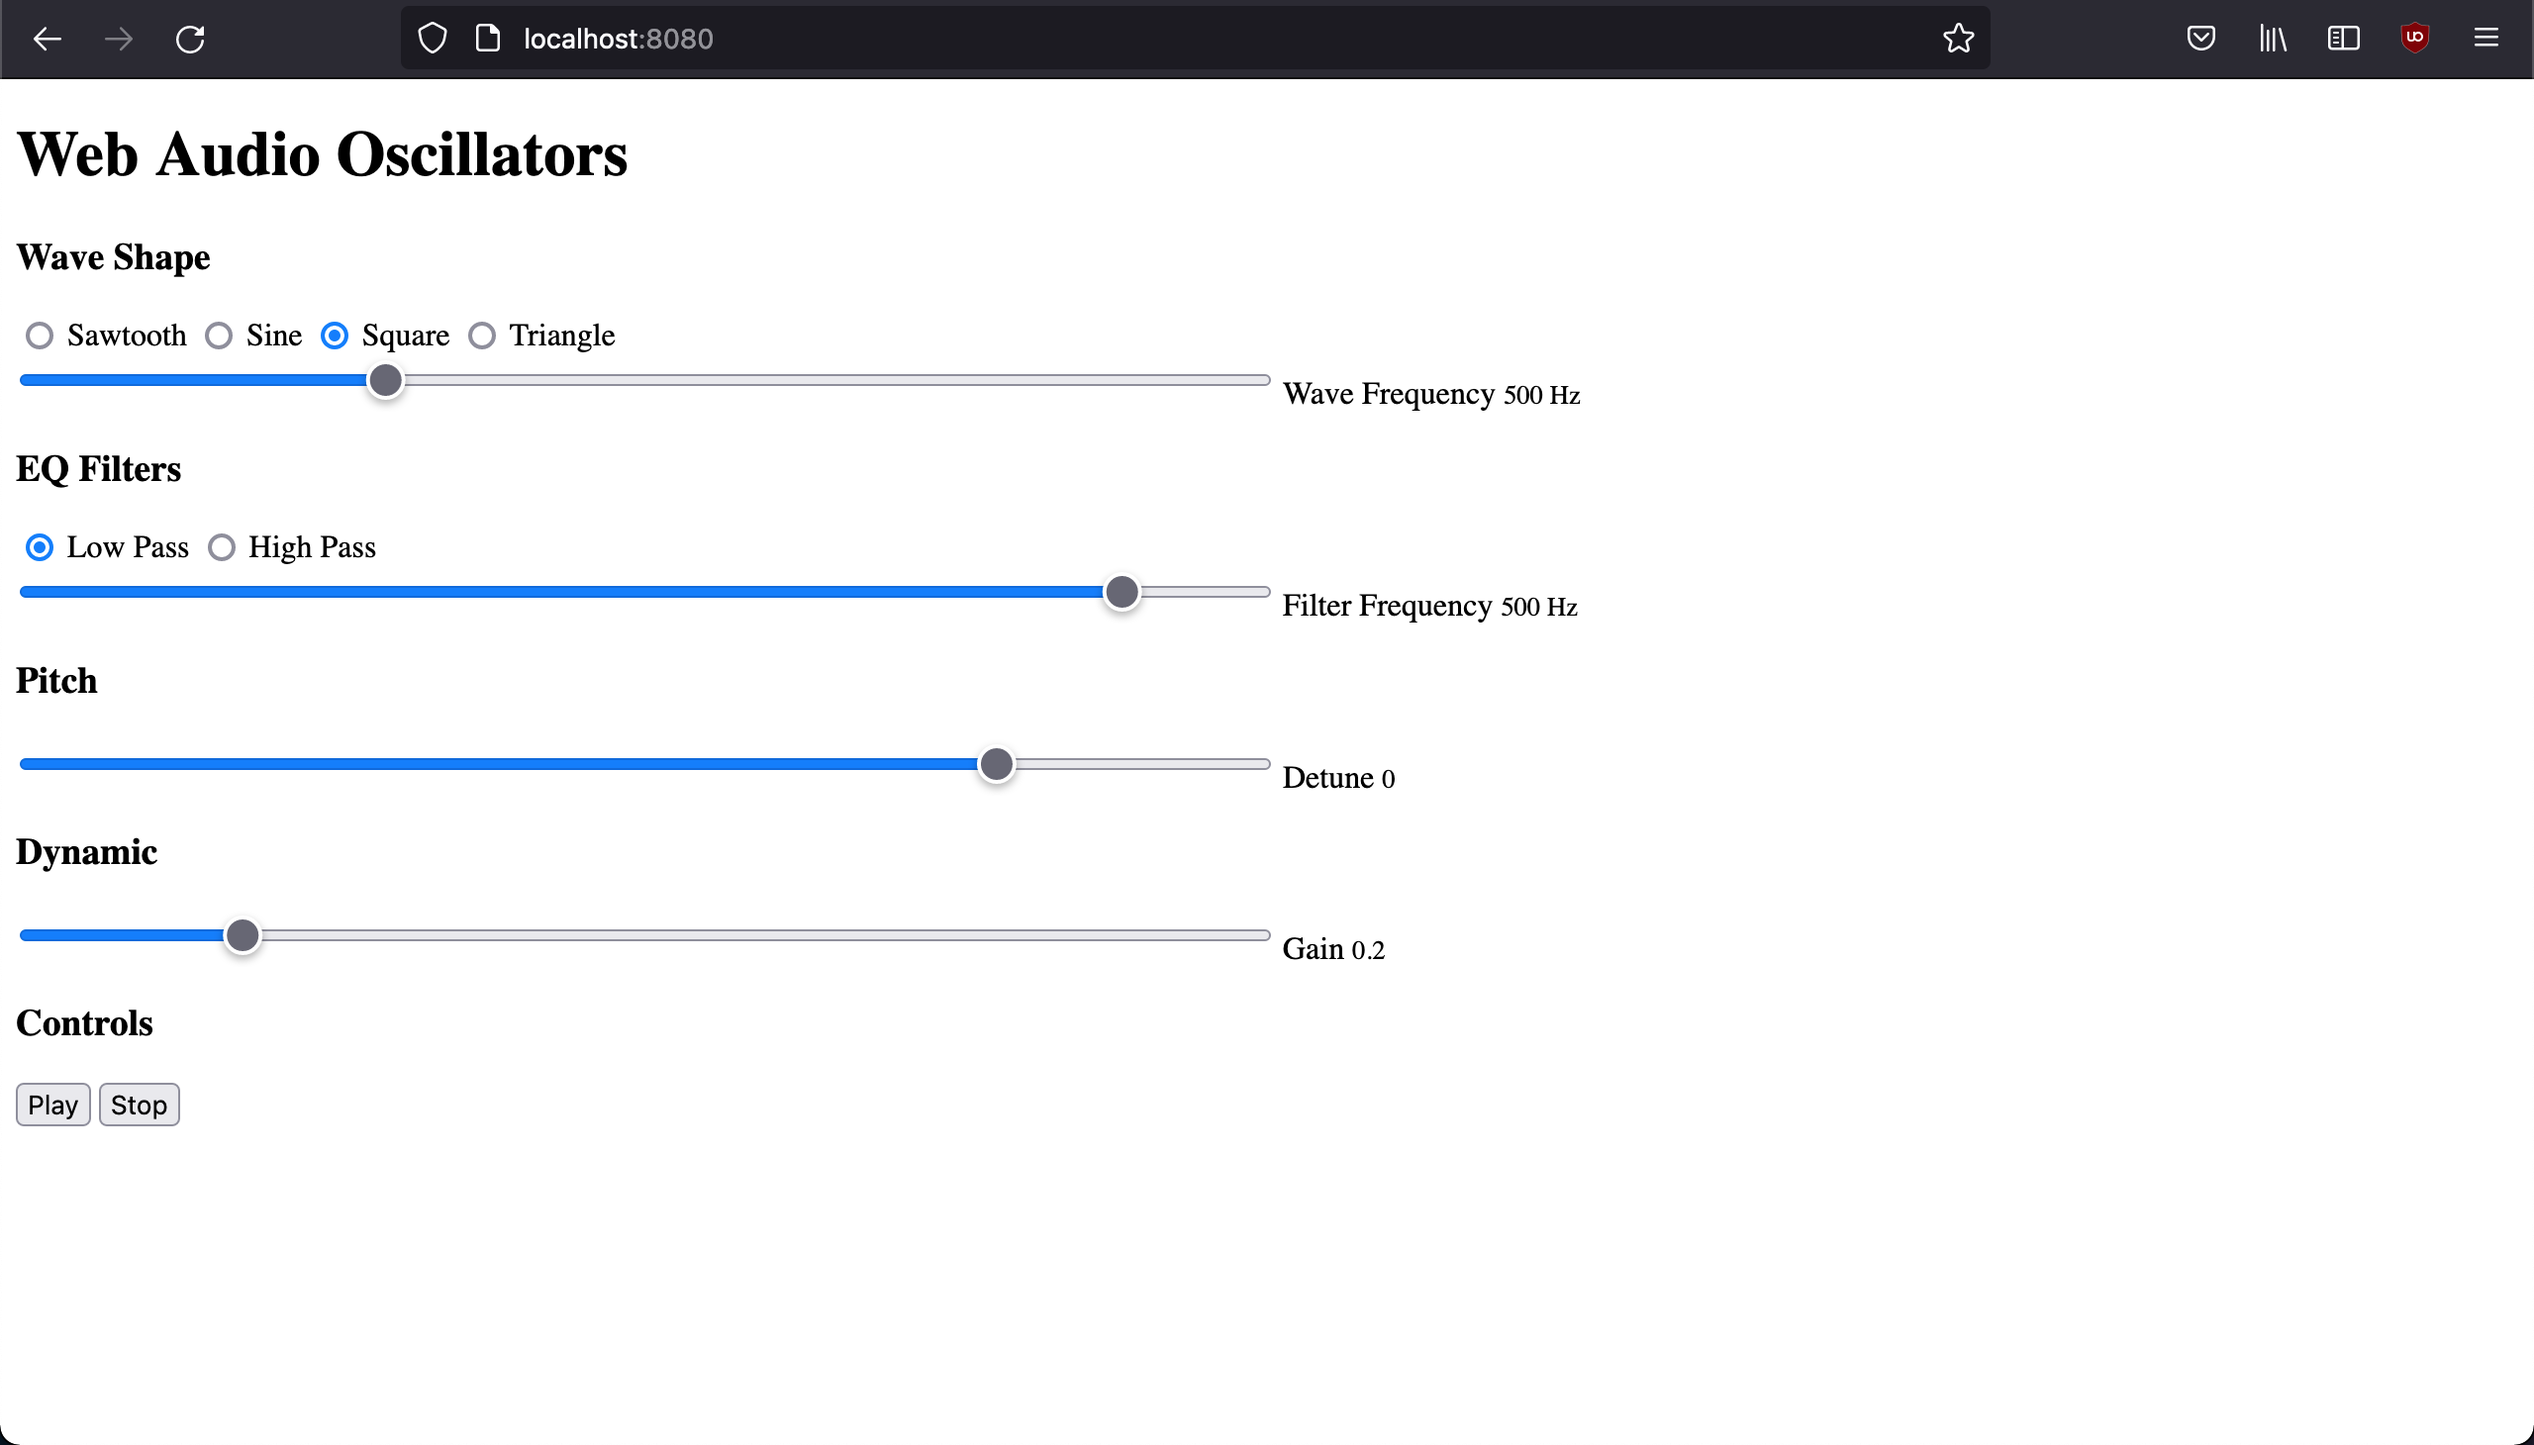
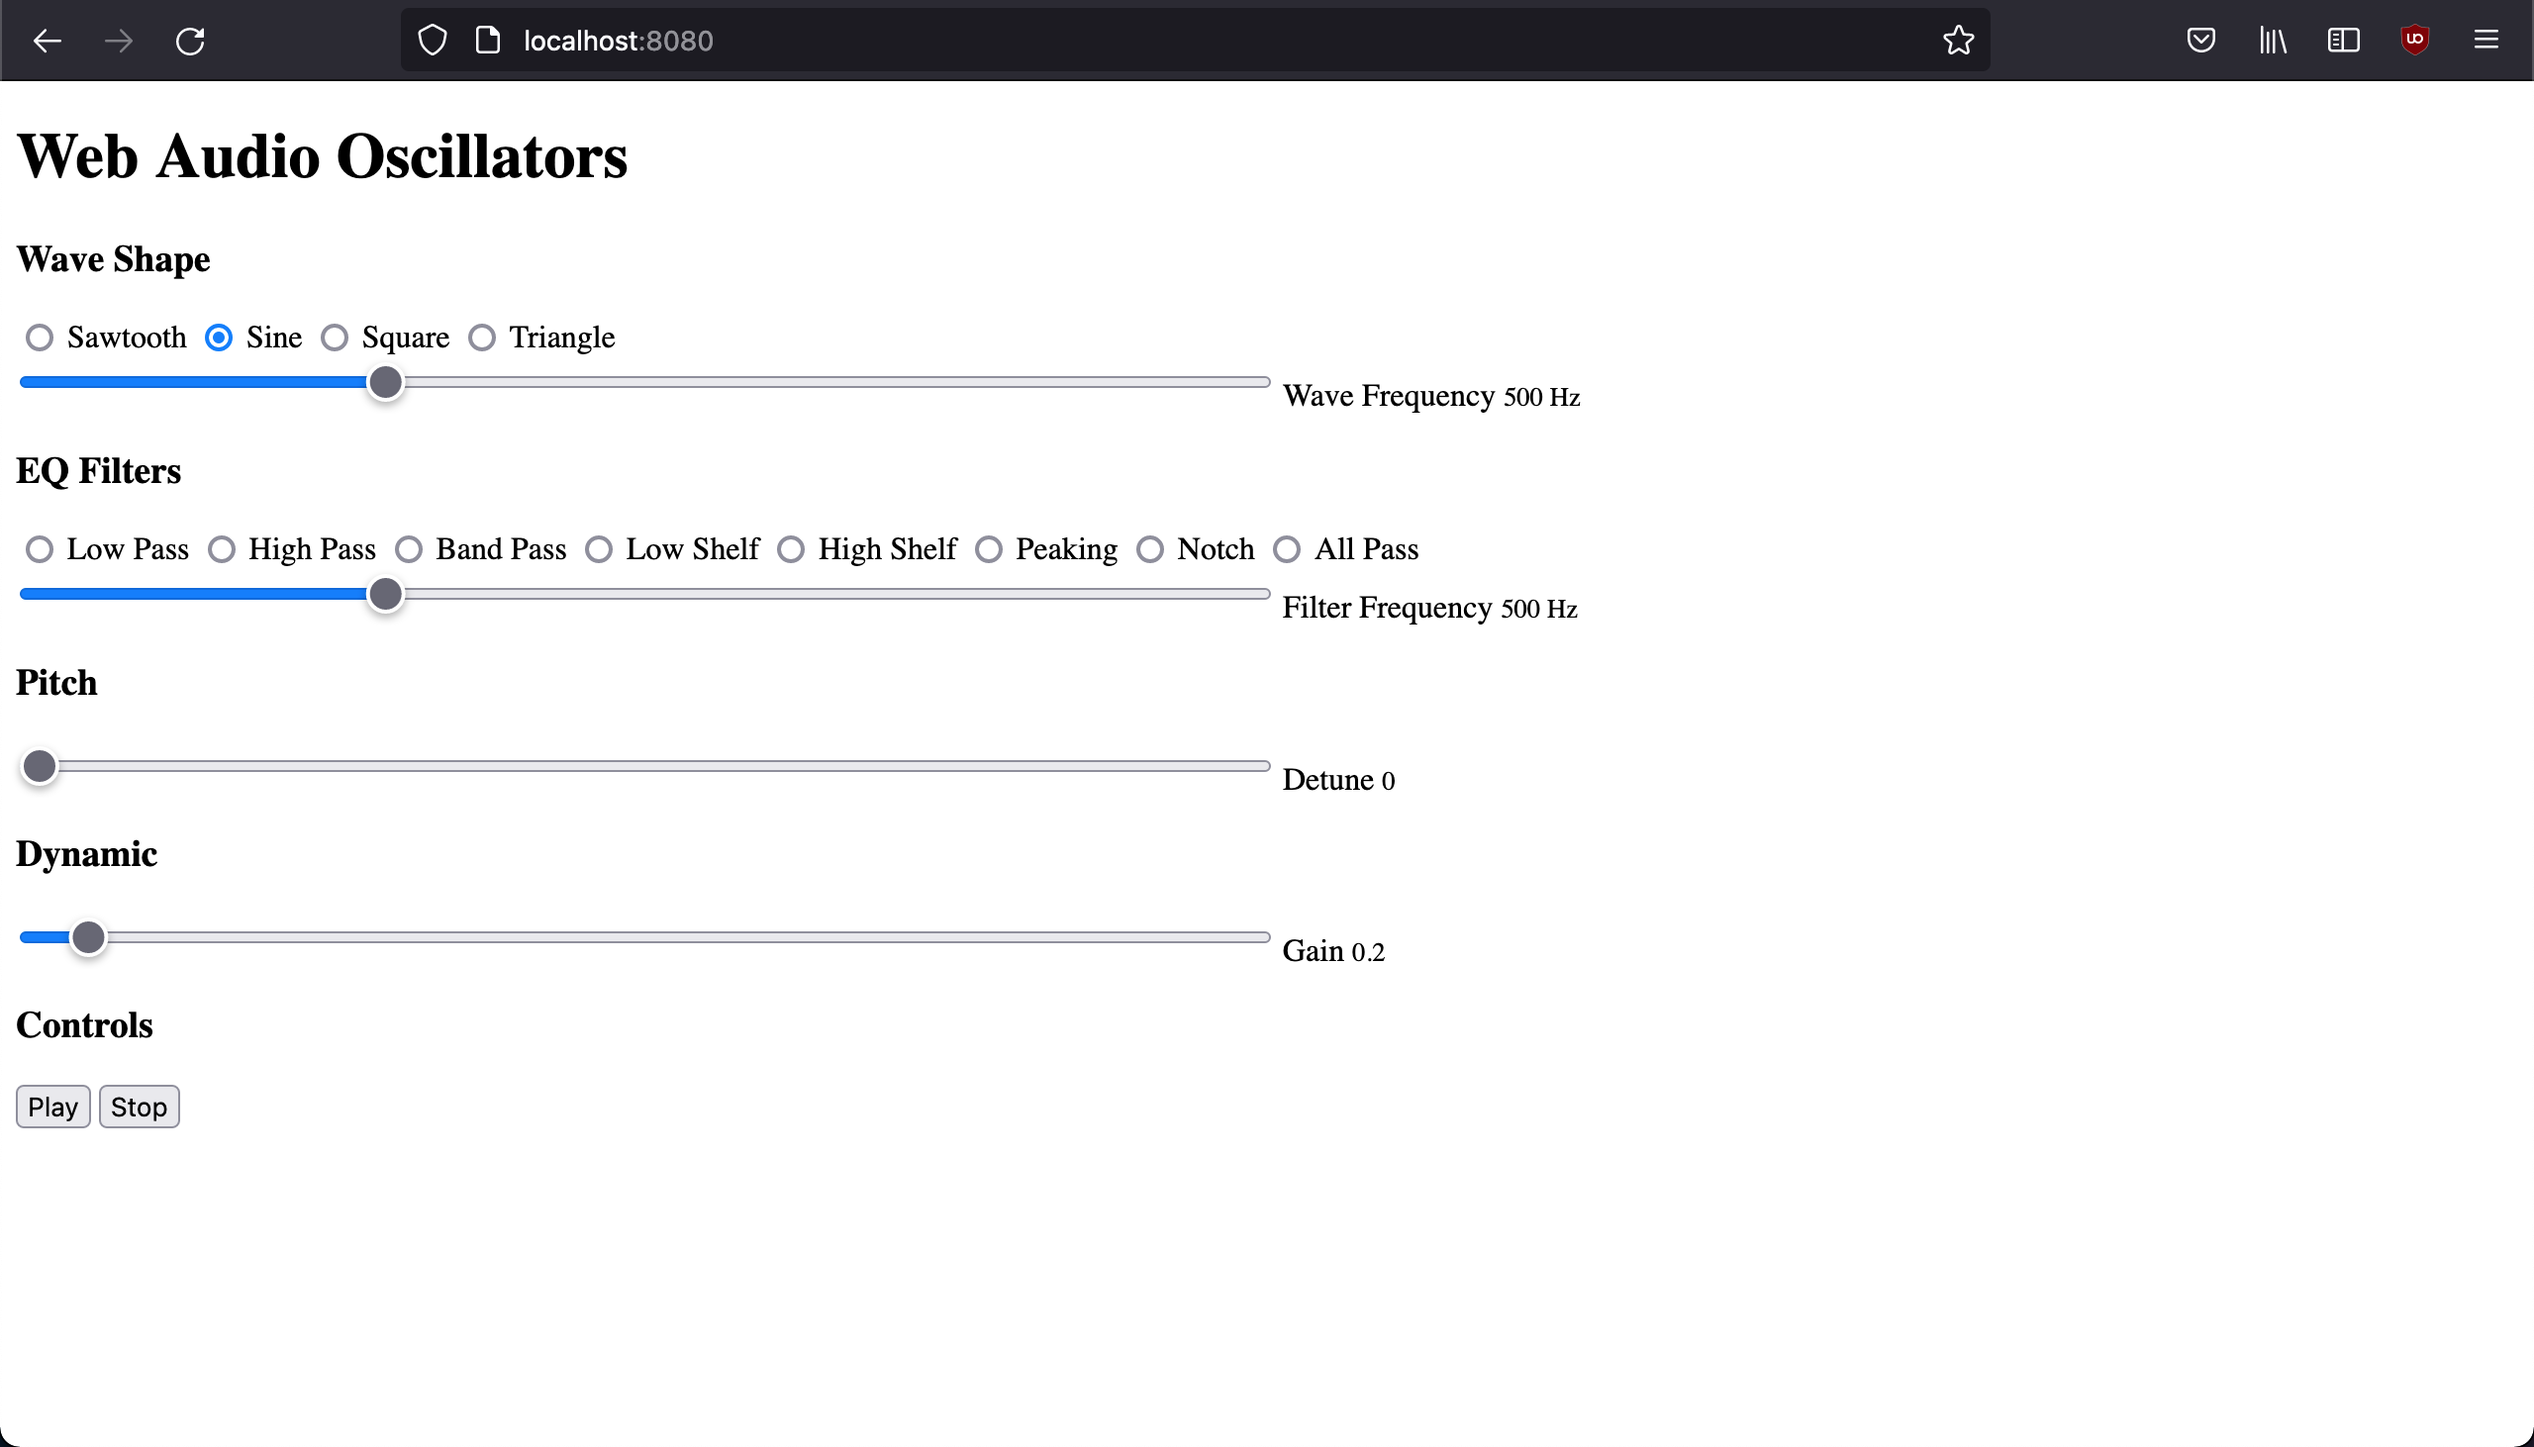
add the rest of the filters

diff --git a/index.html b/index.html
@@ -35,6 +35,18 @@
     <label for="lowpass">Low Pass</label>
     <input type="radio" id="highpass" name="filter-type" value="highpass" />
     <label for="highpass">High Pass</label>
+    <input type="radio" id="bandpass" name="filter-type" value="bandpass" />
+    <label for="bandpass">Band Pass</label>
+    <input type="radio" id="lowshelf" name="filter-type" value="lowshelf" />
+    <label for="lowshelf">Low Shelf</label>
+    <input type="radio" id="highshelf" name="filter-type" value="highshelf" />
+    <label for="highshelf">High Shelf</label>
+    <input type="radio" id="peaking" name="filter-type" value="peaking" />
+    <label for="peaking">Peaking</label>
+    <input type="radio" id="notch" name="filter-type" value="notch" />
+    <label for="notch">Notch</label>
+    <input type="radio" id="allpass" name="filter-type" value="allpass" />
+    <label for="allpass">All Pass</label>
     <br />
     <input
       id="filter-frequency"
